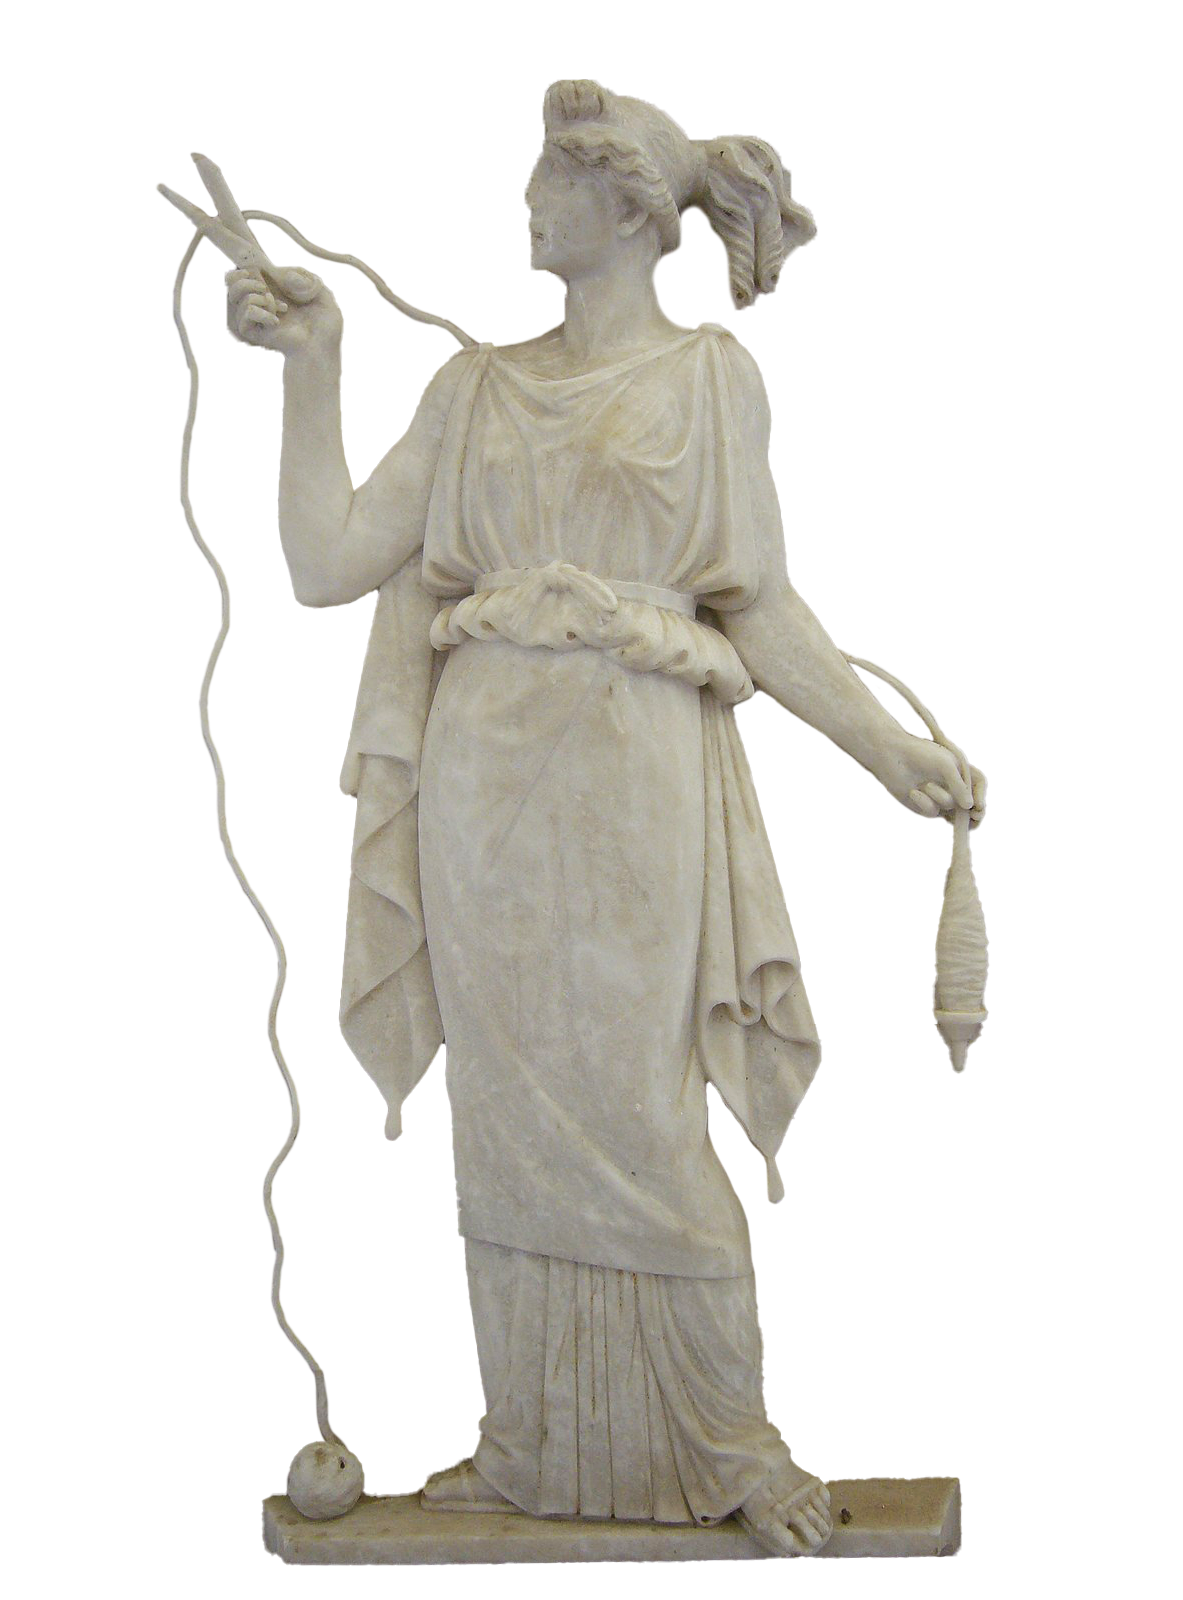
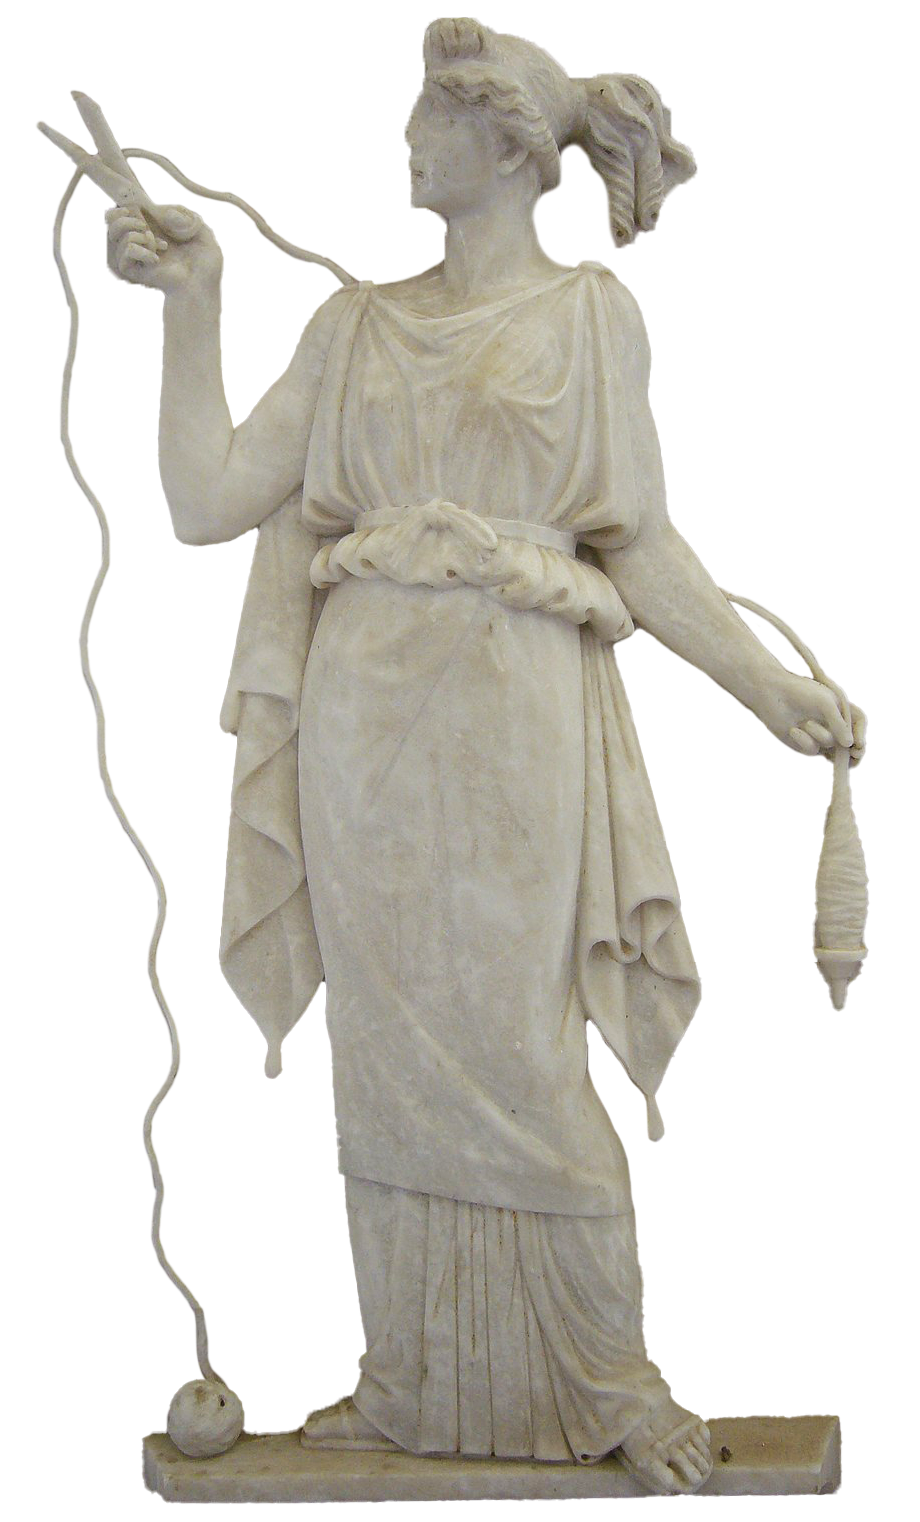
may 12 3

diff --git a/style02.css b/style02.css
@@ -1,10 +1,10 @@
 body {
     background: black;
-    margin: 0px;
-    padding:0px;
     animation: fadeInAnimation ease 3s;
     animation-iteration-count: 1;
+    margin:0;
     overflow-x: hidden;
+    overflow-y: hidden;
 }
 
 @keyframes fadeInAnimation {
@@ -47,12 +47,14 @@ body {
 }
 
 .pagecontainer {
+    position:fixed;
     display: flex;
     flex-direction: column;
     justify-content: center;
     align-items: center;
-    width:100%;
-    padding: 25px;
+    margin:auto;
+    height:100vh;
+    width:100vw;
     /* border: 2px solid red; */
 }
 
@@ -86,18 +88,9 @@ a {
     z-index: 999;
 }
 
-@keyframes fadeInUp2 {
-    from {
-        opacity: 0; /* Start with opacity 0 */
-        transform: translateY(20px); /* Start slightly below its final position */
-    }
-    to {
-        opacity: 1; /* End with full opacity */
-        transform: translateY(0); /* End at its final position */
-    }
-}
-
-
 @media only screen and (max-width: 768px) {
-
+    .pagecontainer img {
+        height:60vh;
+        filter: drop-shadow(0px 0px 2px #ffffff);
+    }
 }
